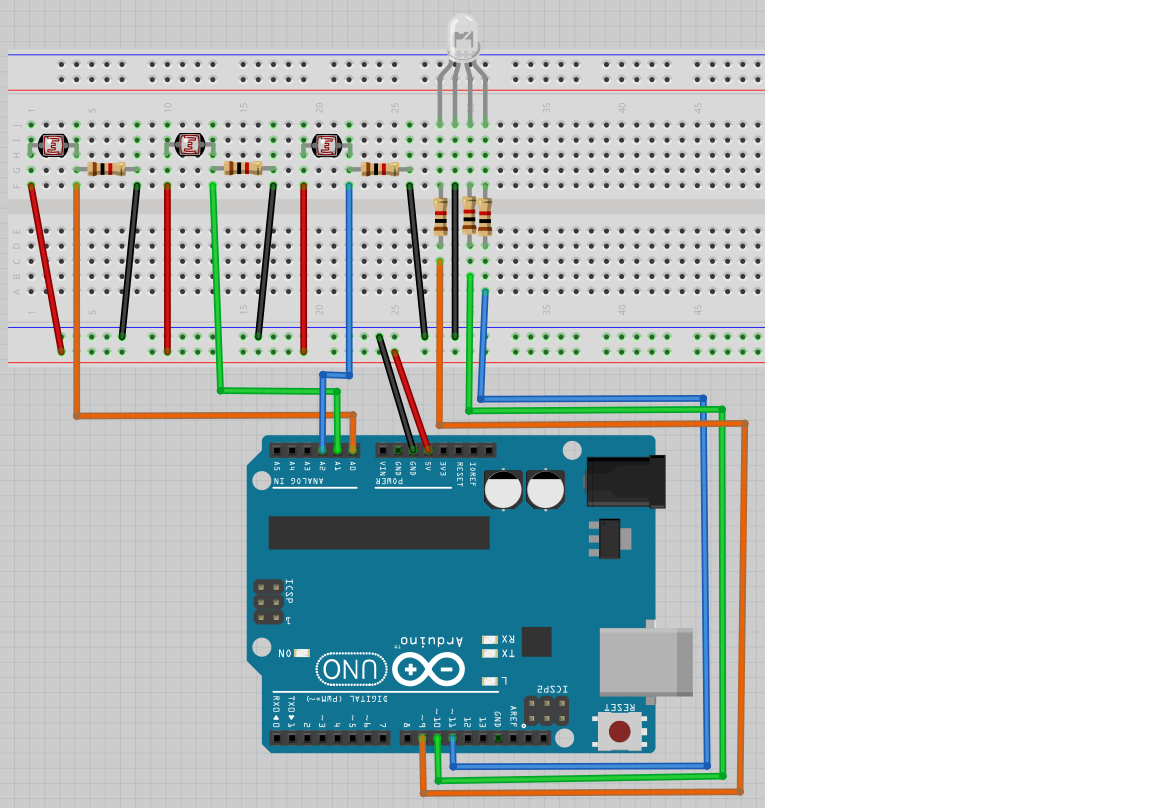
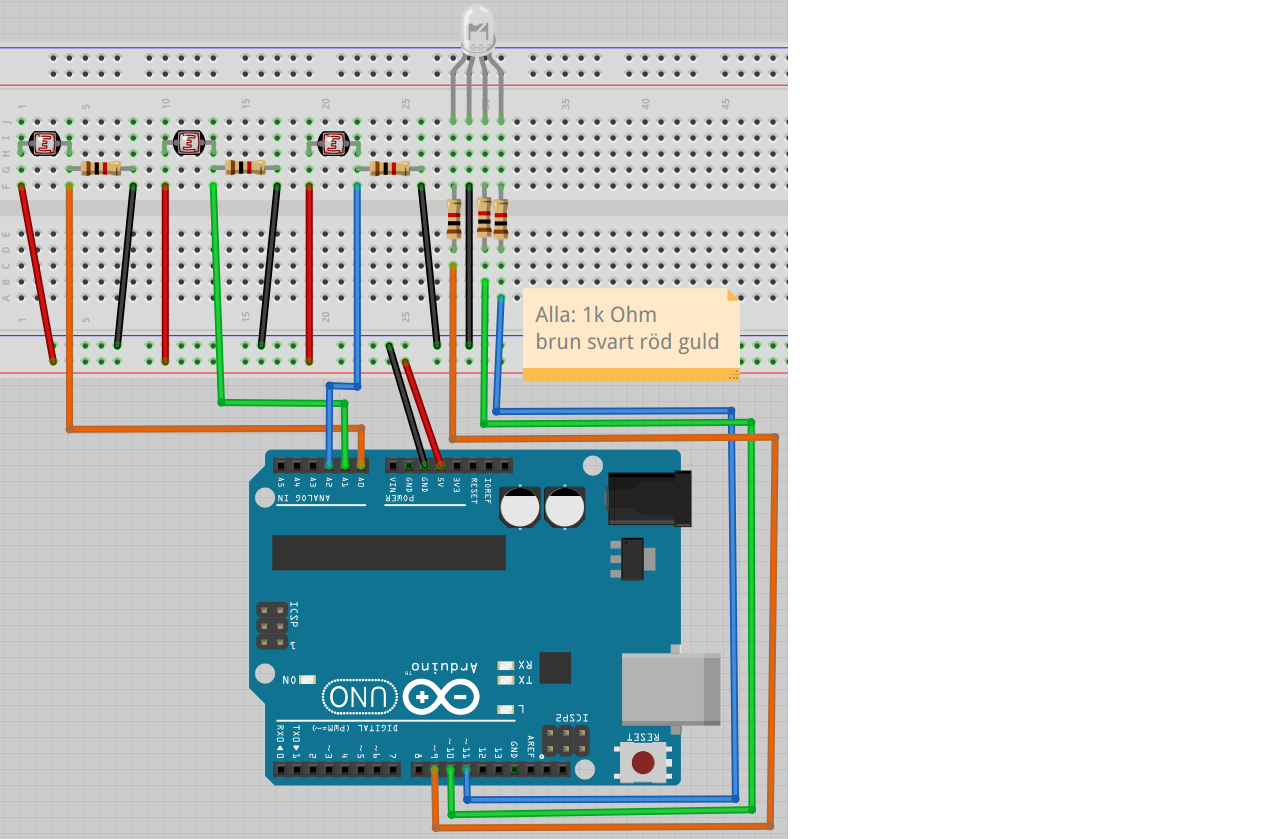
Fix chapter 18.2

Changed region(s): [[0.0, 0.0, 0.669, 1.0]]

diff --git a/docs/kapitel/18_anvaendning_av_en_ldr/README.md b/docs/kapitel/18_anvaendning_av_en_ldr/README.md
@@ -37,9 +37,18 @@ Kör koden och rör LDR:er. Vad ser du?
 
 ### 18.2. Svar
 
-Om du inte rör LDR:er är färgen svagt rött (men det kan bero på RGB lysdiod,
-så den kan också vara grönt eller blått).
-Om du fördystra eller lyser på den första LDR  kan du ändra ljusstyrka.
+Det är bara en lysdiod som ändrar sig.
+
+![Dator](EmojiComputer.png) | Det är som du har programmerat just nu!
+:-------------:|:----------------------------------------:
+
+Om du rör den första LDR:er, lyser första lysdioden mer eller mindre.
+
+![Bild](EmojiBowtie.png) | Det kann vara tufft att får all färger av ett RBG lysdiod att funkar!
+:-------------:|:----------------------------------------:
+
+![Bild](EmojiSunglasses.png) | Du kann invända tre vanliga motstånder också!
+:-------------:|:----------------------------------------:
 
 ## 18.3. Vad koden betyder
 
@@ -184,10 +193,10 @@ void setup() {
 void loop() {
   const int ldr_1{analogRead(pin_ldr_1)};
   const int ldr_2{analogRead(pin_ldr_2)};
-  const int joy_sw{analogRead(pin_ldr_3)};
+  const int ldr_3{analogRead(pin_ldr_3)};
   const int ljus_styrka_r{ldr_1 / 4};
   const int ljus_styrka_g{ldr_2 / 4};
-  const int ljus_styrka_b{joy_sw / 4};
+  const int ljus_styrka_b{ldr_3 / 4};
   analogWrite(pin_led_r, ljus_styrka_r);
   analogWrite(pin_led_g, ljus_styrka_g);
   analogWrite(pin_led_b, ljus_styrka_b);